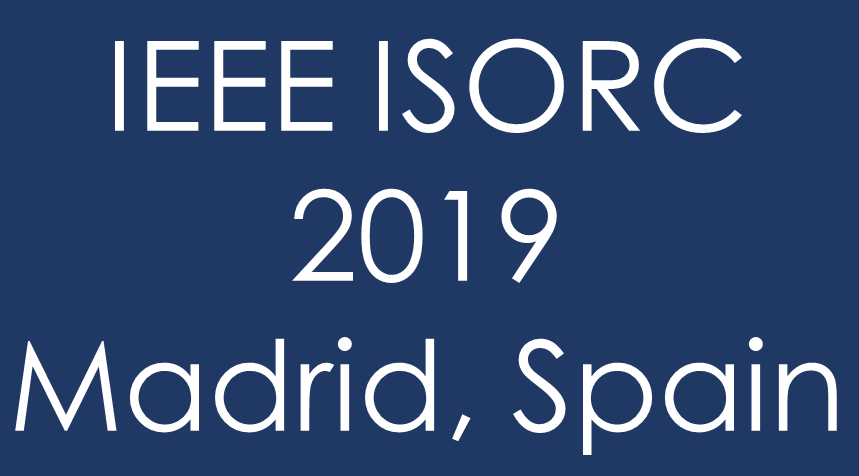
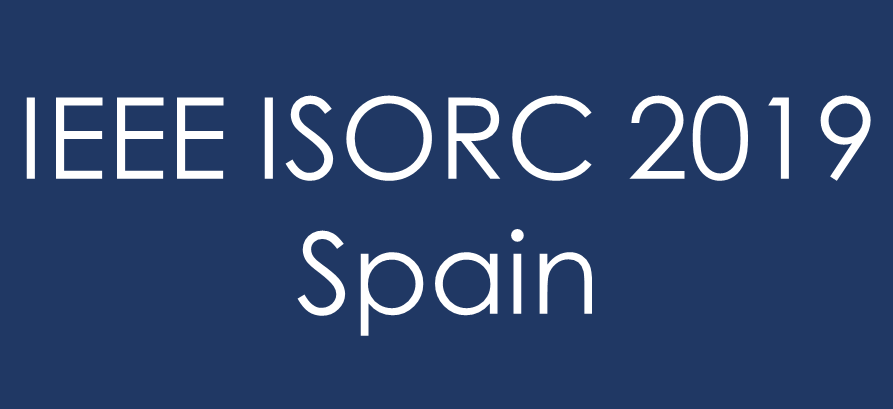
commit

Changed region(s): [[0.0, 0.0587, 0.9988, 0.9682], [0.8475, 0.7042, 0.908, 0.7335]]

diff --git a/index.html b/index.html
@@ -82,24 +82,24 @@
             <ul class="cfpColour callWidth">
             
             <li><a href="html/cfp.html" class="locWidth">HTML</a></li>
-            <li><a href="resources/ISORC2018_CFP.pdf" target="_blank" class="locWidth">PDF</a></li>
-            <li><a href="resources/ISORC2018_CFP.txt" target="_blank" class="locWidth">TXT</a></li>
-            </ul>
+            <!-- <li><a href="resources/ISORC2018_CFP.pdf" target="_blank" class="locWidth">PDF</a></li> -->
+            <!-- <li><a href="resources/ISORC2018_CFP.txt" target="_blank" class="locWidth">TXT</a></li> -->
+          </ul>
         </li>
 
        
-       <li class="programColour" style="width: 170px;"><a href="html/program.html">PROGRAM</a></li>
-       <li class="regColour" style="width: 201px;"><a href="html/registration.html">REGISTRATION</a></li>
-       <li class="locColour" style="width: 135px; "><a href="#">VENUE</a> 
+       <li class="programColour" style="width: 170px;"><a href="html/notyet.html">PROGRAM</a></li>
+       <li class="regColour" style="width: 201px;"><a href="html/notyet.html">REGISTRATION</a></li>
+<!--       <li class="locColour" style="width: 135px; "><a href="#">VENUE</a> 
           <ul class="locColour locWidth"> 
-            <!--     <li><a href="html/gettinghere.html" class="locWidth">How to get to us</a></li> -->
+              <li><a href="html/gettinghere.html" class="locWidth">How to get to us</a></li>
             <li><a href="http://www.ntu.edu.sg/nec/Pages/default.aspx" target="_blank" class="locWidth">Conference location</a></li> 
             <li><a href="http://www.ntu.edu.sg/nec/guestrooms/Pages/Rates.aspx" target="_blank" class="locWidth">Hotel at NTU</a></li> 
             <li><a href="http://www.ntu.edu.sg/AboutNTU/visitingntu/Pages/location.aspx" target="_blank" class="locWidth">Getting to NTU</a></li> 
-            
+
           </ul> 
         </li> 
-
+-->
        <!--  <li class="cfpColour" style="width: 150px;"><a href="../resources/phd-forum-isorc2017.pdf">PHD-FORUM</a> -->
        <!-- </li>        -->
         

diff --git a/html/orgCommittee.html b/html/orgCommittee.html
@@ -49,9 +49,14 @@
 <div id="titleWrapper">
     <div class="leftTitle"> <a href="../index.html"> <img src="../gfx/title2019.png" width="385" height="220"/></a></div>
     <div id="home_images" style="overflow: hidden;">
-        <img src="../gfx/bannerPics/MarinaBayNight.jpg" width="640" height="220" border="0" />
-        <img src="../gfx/bannerPics/Lakeside.jpg" width="640" height="220" border="0" />
-        <img src="../gfx/bannerPics/Hive.jpg" width="640" height="220" border="0" />
+        <img src="../gfx/bannerPics/4torres2.png" width="640" height="220" border="0" />
+        <img src="../gfx/bannerPics/almudena.jpg" width="640" height="220" border="0" />
+       <img src="../gfx/bannerPics/museoprado.jpg" width="640" height="220" border="0" />
+       <img src="../gfx/bannerPics/posadapeine.png" width="640" height="220" border="0" />
+       <img src="../gfx/bannerPics/pzacas.jpg" width="440" height="220" border="0" />
+       <img src="../gfx/bannerPics/spainmap.jpg" width="440" height="220" border="0" />
+       <img src="../gfx/bannerPics/torres.jpg" width="640" height="220" border="0" />
+       <img src="../gfx/bannerPics/ventas.jpg" width="640" height="220" border="0" />
     </div>
 </div>
 
@@ -156,12 +161,20 @@
           <div id="commMember">Sidharta Andalam </div>
           <div id="commAffil">Nanyang Technological University, Singapore</div></div>
 -->
+
+        <div id="committeeHeading">Posters and Demo Chair</div>
+        <div id="comSpacer">
+          <div id="commMember">Eduardo Quinones </div>
+          <div id="commAffil">Barcelona Supercomputing Center, Spain</div></div>
+
         
 		<div id="committeeHeading">Steering Committee Chairs</div>
         <div id="comSpacer"><div id="commMember">Uwe Brinskshulte </div>
 		<div id="commAffil">Goethe University Frankfurt am Main, Germany</div></div>
         <div id="comSpacer"><div id="commMember">Rob Pettit </div>
 		<div id="commAffil">The Aerospace Corporation, USA</div></div>
+
+
         
     </div>
         <br />

diff --git a/html/program.html b/html/program.html
@@ -4,7 +4,7 @@
 <meta http-equiv="Content-Type" content="text/html; charset=utf-8" />
 
 <<meta name="keywords" content="IEEE,ISORC,embedded,time,real-time,services,systems,cloud,web,computing,hard,soft,device,hardware,software,conference,symposium">
-<meta name="description" content="21st IEEE International Symposium on Real-Time Computing. IEEE ISORC 2018. May 29 - 31 2018. SINGAPORE">
+<meta name="description" content="22nd IEEE International Symposium on Real-Time Computing. IEEE ISORC 2019. Spain">
 
 <!-- InstanceBeginEditable name="doctitle" -->
 <title>IEEE ISORC 2018</title>
@@ -46,11 +46,16 @@
 <div class="mainBody">
 
 <div id="titleWrapper">
-    <div class="leftTitle"> <a href="../index.html"> <img src="../gfx/titleLeft1.png" width="385" height="220"/></a></div>
+    <div class="leftTitle"> <a href="../index.html"> <img src="../gfx/title2019.png" width="385" height="220"/></a></div>
     <div id="home_images" style="overflow: hidden;">
-        <img src="../gfx/bannerPics/MarinaBayNight.jpg" width="640" height="220" border="0" />
-        <img src="../gfx/bannerPics/Lakeside.jpg" width="640" height="220" border="0" />
-        <img src="../gfx/bannerPics/Hive.jpg" width="640" height="220" border="0" />
+        <img src="../gfx/bannerPics/4torres2.png" width="640" height="220" border="0" />
+        <img src="../gfx/bannerPics/almudena.jpg" width="640" height="220" border="0" />
+       <img src="../gfx/bannerPics/museoprado.jpg" width="640" height="220" border="0" />
+       <img src="../gfx/bannerPics/posadapeine.png" width="640" height="220" border="0" />
+       <img src="../gfx/bannerPics/pzacas.jpg" width="440" height="220" border="0" />
+       <img src="../gfx/bannerPics/spainmap.jpg" width="440" height="220" border="0" />
+       <img src="../gfx/bannerPics/torres.jpg" width="640" height="220" border="0" />
+       <img src="../gfx/bannerPics/ventas.jpg" width="640" height="220" border="0" />
     </div>
 </div>
 

diff --git a/html/notyet.html b/html/notyet.html
@@ -46,7 +46,7 @@
 <div class="mainBody">
 
 <div id="titleWrapper">
-    <div class="leftTitle"> <a href="../index.html"> <img src="../gfx/titleLeft1.png" width="385" height="220"/></a></div>
+    <div class="leftTitle"> <a href="../index.html"> <img src="../gfx/title2019.png" width="385" height="220"/></a></div>
     <div id="home_images" style="overflow: hidden;">
         <img src="../gfx/bannerPics/MarinaBayNight.jpg" width="640" height="220" border="0" />
         <img src="../gfx/bannerPics/Lakeside.jpg" width="640" height="220" border="0" />
@@ -75,7 +75,7 @@
 		<!-- InstanceBeginEditable name="TitleRegion" -->TO BE PUBLISHED SOON<!-- InstanceEndEditable -->
         </div>
 		
-		<p> <a href="https://www.mfa.gov.sg/content/mfa/consular_information/foreigners_visiting_singapore.html" target="_blank" >For Foreigners Visiting Singapore</a> </p>
+		<p> Not yet published. </p>
        
 		<!-- InstanceBeginEditable name="ContentRegion" -->
 		<p> Information will be available soon!

diff --git a/html/cfp.html b/html/cfp.html
@@ -46,7 +46,7 @@
 <div class="mainBody">
 
 <div id="titleWrapper">
-    <div class="leftTitle"> <a href="../index.html"> <img src="../gfx/titleLeft1.png" width="385" height="220"/></a></div>
+    <div class="leftTitle"> <a href="../index.html"> <img src="../gfx/title2019.png" width="385" height="220"/></a></div>
     <div id="home_images" style="overflow: hidden;">
         <img src="../gfx/bannerPics/4torres2.png" width="640" height="220" border="0" />
         <img src="../gfx/bannerPics/almudena.jpg" width="640" height="220" border="0" />
